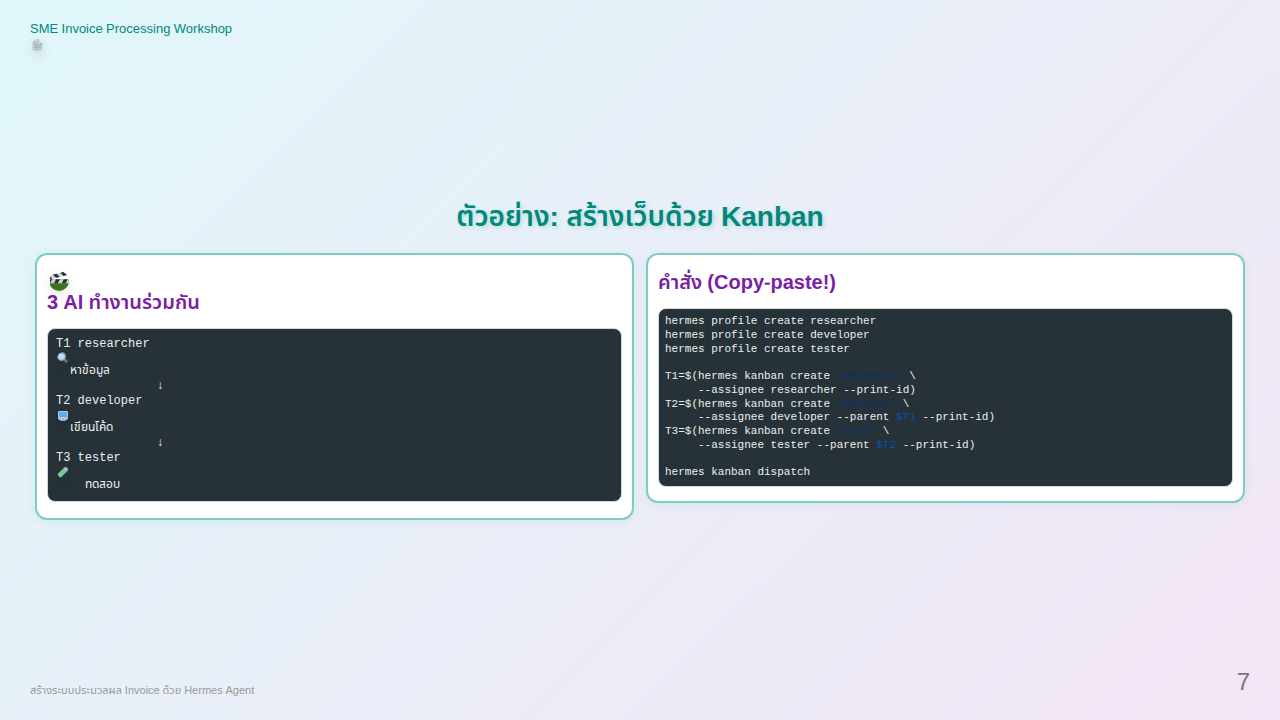
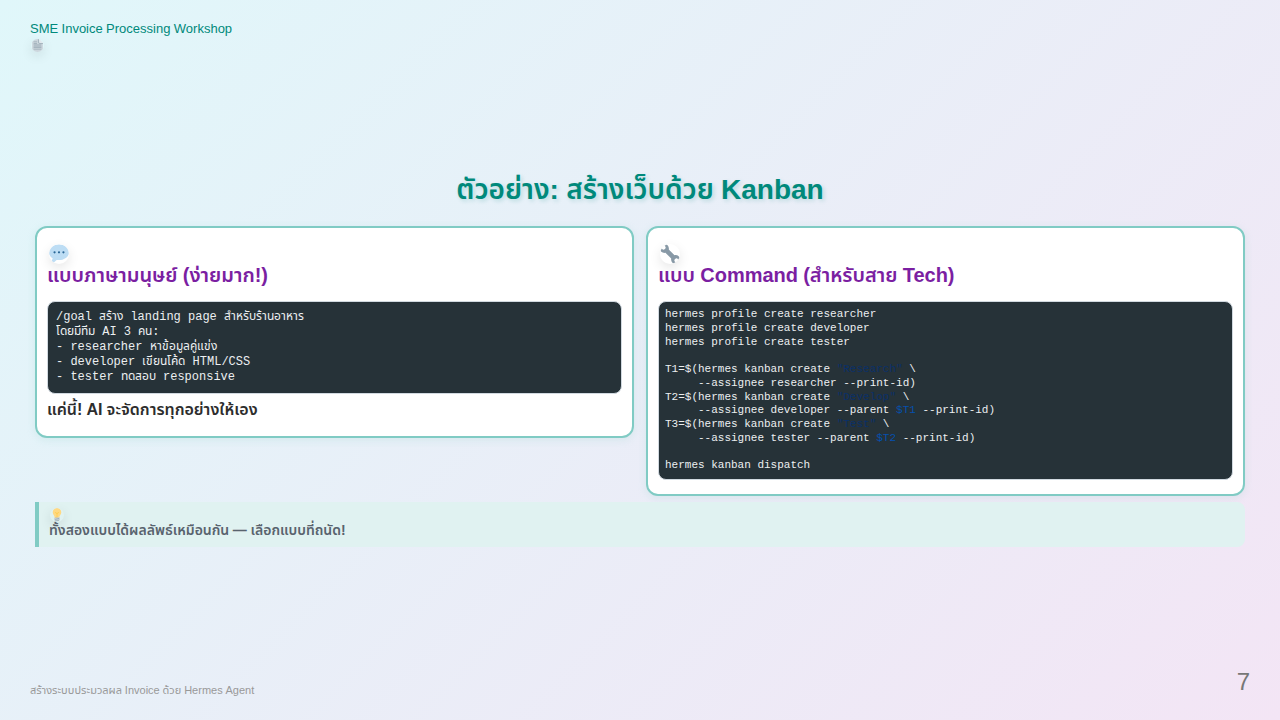
Add human-language prompts alongside terminal commands
- Lab 1: แสดง /goal แบบภาษามนุษย์ คู่กับ command
- Kanban demo: แสดง prompt แบบพูดปกติ คู่กับ command
- Lab 6: แสดง /cronjob แบบพูดปกติ คู่กับ command
- ผู้เรียนเห็นว่าใช้ง่าย แค่พิมพ์สิ่งที่ต้องการ

Changed region(s): [[0.0, 0.2444, 0.9688, 0.7639]]

diff --git a/slides/sme-invoice-processing.md b/slides/sme-invoice-processing.md
@@ -276,21 +276,23 @@ style: |
 
 <div class="kawaii-box">
 
-## 🎬 3 AI ทำงานร่วมกัน
+## 💬 แบบภาษามนุษย์ (ง่ายมาก!)
 
 ```
-T1 researcher 🔍  หาข้อมูล
-              ↓
-T2 developer 💻  เขียนโค้ด
-              ↓
-T3 tester 🧪    ทดสอบ
+/goal สร้าง landing page สำหรับร้านอาหาร
+โดยมีทีม AI 3 คน:
+- researcher หาข้อมูลคู่แข่ง
+- developer เขียนโค้ด HTML/CSS
+- tester ทดสอบ responsive
 ```
+
+**แค่นี้! AI จะจัดการทุกอย่างให้เอง**
 
 </div>
 
 <div class="kawaii-box compact">
 
-## คำสั่ง (Copy-paste!)
+## 🔧 แบบ Command (สำหรับสาย Tech)
 
 ```bash
 hermes profile create researcher
@@ -311,54 +313,55 @@ hermes kanban dispatch
 
 </div>
 
+> 💡 **ทั้งสองแบบได้ผลลัพธ์เหมือนกัน — เลือกแบบที่ถนัด!**
+
 ---
 
 # Lab 1: สร้าง Landing Page
 
 <div class="two-col">
 
+<div class="kawaii-box">
+
+## 💬 แบบภาษามนุษย์
+
+```
+/goal สร้าง landing page สำหรับร้านอาหาร
+- มีเมนูอาหารและรูปภาพ
+- มีที่อยู่และเบอร์โทร
+- รองรับมือถือ
+- ให้ทีม AI 3 คนช่วยกัน:
+  designer ออกแบบ, developer เขียนโค้ด, tester ทดสอบ
+```
+
+**แค่นี้! AI จะสร้าง profiles และ tasks ให้เอง**
+
+</div>
+
 <div class="kawaii-box compact">
 
-## 📝 ขั้นตอนที่ 1-2
+## 🔧 แบบ Command (สำหรับสาย Tech)
 
 ```bash
-# สร้าง profiles
 hermes profile create designer
 hermes profile create developer
 hermes profile create tester
 
-# สร้าง tasks
 T1=$(hermes kanban create "Design" \
      --assignee designer --print-id)
 T2=$(hermes kanban create "Develop" \
      --assignee developer --parent $T1 --print-id)
 T3=$(hermes kanban create "Test" \
      --assignee tester --parent $T2 --print-id)
-```
 
-</div>
-
-<div class="kawaii-box">
-
-## 🔗 Dependencies
-
-```
-T1 (Design) → T2 (Develop) → T3 (Test)
-```
-
-## 📝 ขั้นตอนที่ 3
-
-```bash
 hermes kanban dispatch
 ```
 
-เปิด browser: `http://localhost:9119/kanban`
-
 </div>
 
 </div>
 
-> 🌸 **ดู AI ทำงาน — ไม่ต้องกดอะไร!**
+> 🌸 **ทั้งสองแบบได้ผลลัพธ์เหมือนกัน — เลือกแบบที่ถนัด!**
 
 ---
 
@@ -619,9 +622,24 @@ hermes kanban dispatch
 
 <div class="two-col">
 
+<div class="kawaii-box">
+
+## 💬 แบบภาษามนุษย์
+
+```
+/cronjob ทุกวันจันทร์ 9 โมงเช้า
+ให้สรุปยอด invoice สัปดาห์นี้
+แบ่งตามประเภท
+แล้วส่งรายงานทาง LINE
+```
+
+**แค่นี้! AI จะตั้ง cronjob ให้เอง**
+
+</div>
+
 <div class="kawaii-box compact">
 
-## 📝 ตั้ง Cronjob
+## 🔧 แบบ Command (สำหรับสาย Tech)
 
 ```bash
 cronjob create \
@@ -630,34 +648,16 @@ cronjob create \
    สัปดาห์นี้ แบ่งตามประเภท
    ส่งรายงานทาง LINE" \
   --name "Weekly Summary"
-```
 
-## 📝 ทดสอบทันที
-
-```bash
+# ทดสอบทันที
 cronjob run <job_id>
 ```
 
 </div>
 
-<div class="kawaii-box">
-
-## ⏰ Cron Schedule ตัวอย่าง
-
-| Schedule | ความหมาย |
-|----------|-----------|
-| `0 9 * * 1` | ทุกวันจันทร์ 9:00 |
-| `0 8 * * *` | ทุกวัน 8:00 |
-| `0 */6 * * *` | ทุก 6 ชั่วโมง |
-
-## 🎬 ผลลัพธ์
-- ทุกวันจันทร์ 9:00 น.
-- AI สรุปยอด invoice
-- ส่งรายงานทาง LINE
-
 </div>
 
-</div>
+> 💡 **ทั้งสองแบบได้ผลลัพธ์เหมือนกัน — เลือกแบบที่ถนัด!**
 
 ---
 
